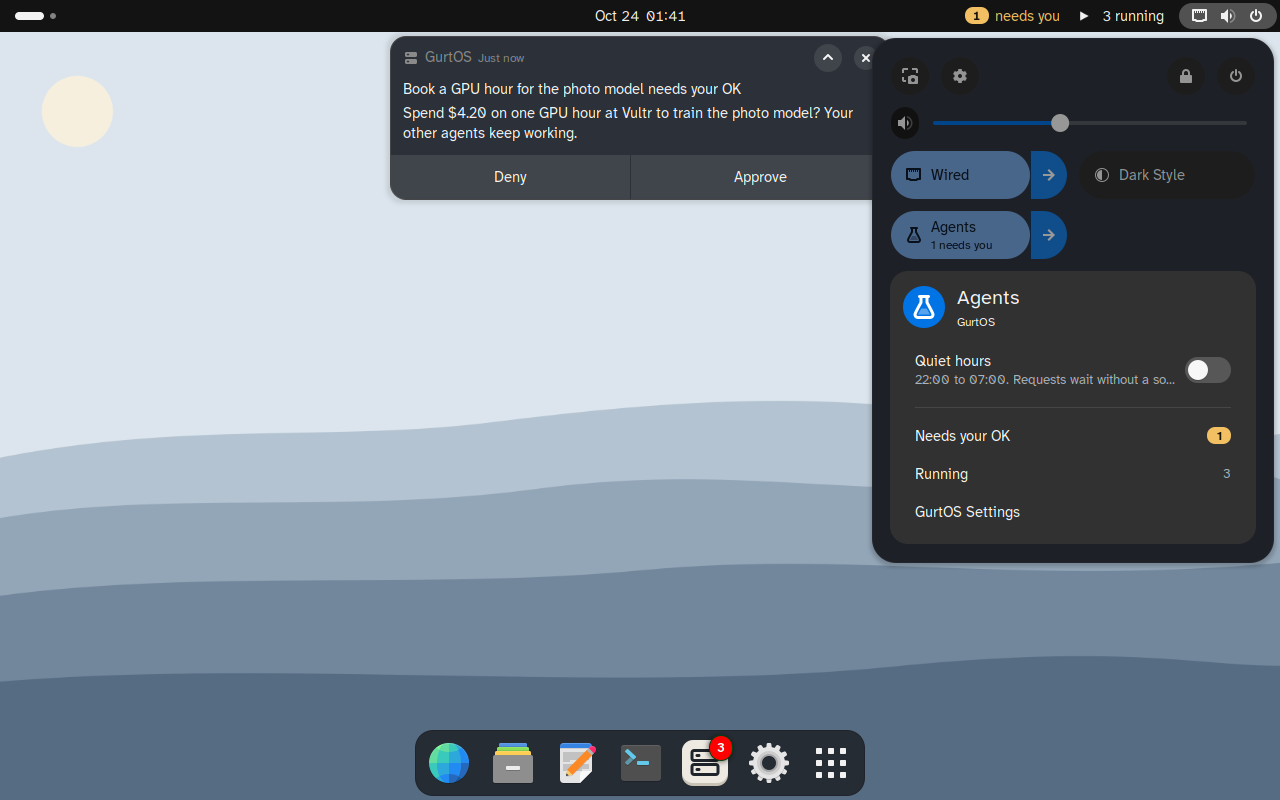
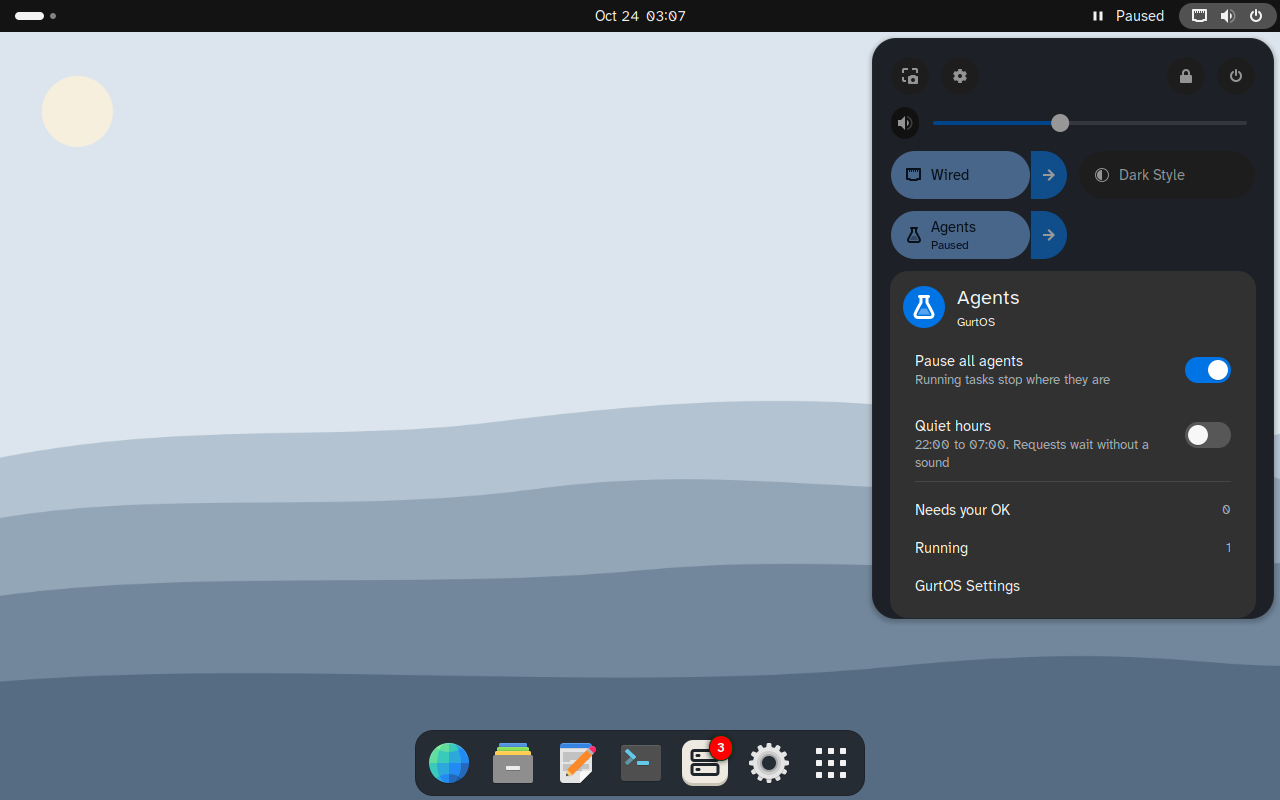
Personal: Pause all agents shows as Paused; Plymouth's lock, entry and bullet; Hills behind first-boot setup
The top bar and the Agents tile say Paused while settings.paused is on, and
the popover's switch refreshes the bar. The two-step splash gets the three
images it needs to load, drawn for GurtOS. GDM's dconf sets the background,
which GNOME's first-boot setup session reads. The Plymouth theme folder is
replaced on install, so an older theme's files go.

diff --git a/personal/shell/gurtos@gurtos.dev/extension.js b/personal/shell/gurtos@gurtos.dev/extension.js
@@ -135,9 +135,11 @@ class Indicator extends PanelMenu.Button {
         const c = counts(tasks, pending);
         this.needs.text = String(c.needsYou);
         this.needsBox.visible = c.needsYou > 0;
-        this.runningLabel.text = online === false ? 'offline' : c.running ? `${c.running} running` : 'Agents';
-        this.runIcon.icon_name = online === false ? 'network-offline-symbolic' : c.running ? 'media-playback-start-symbolic' : 'applications-science-symbolic';
-        this.runBox.visible = !c.needsYou || c.running > 0 || online === false;
+        const paused = !!this.ext.settings?.paused;
+        this.runningLabel.text = online === false ? 'offline' : paused ? 'Paused' : c.running ? `${c.running} running` : 'Agents';
+        this.runIcon.icon_name = online === false ? 'network-offline-symbolic' : paused ? 'media-playback-pause-symbolic'
+            : c.running ? 'media-playback-start-symbolic' : 'applications-science-symbolic';
+        this.runBox.visible = !c.needsYou || c.running > 0 || paused || online === false;
         this.rebuild(); // kept current, so the menu opens on what is true now
     }
 
@@ -243,7 +245,8 @@ class AgentsToggle extends QuickMenuToggle {
         const c = counts(tasks, pending);
         const quiet = !!settings?.quietHours?.enabled;
         this.checked = c.running > 0 || c.needsYou > 0; // on while agents run
-        this.subtitle = c.needsYou ? `${c.needsYou} need${c.needsYou === 1 ? 's' : ''} you` : c.running ? `${c.running} running` : quiet ? 'Quiet hours' : 'Nothing running';
+        this.subtitle = c.needsYou ? `${c.needsYou} need${c.needsYou === 1 ? 's' : ''} you` : settings?.paused ? 'Paused'
+            : c.running ? `${c.running} running` : quiet ? 'Quiet hours' : 'Nothing running';
         this.menu.removeAll();
         if (settings && 'paused' in settings)
             this.menu.addMenuItem(switchRow('Pause all agents', 'Running tasks stop where they are', !!settings.paused, v => this.ext.patch({paused: v})));
@@ -432,6 +435,7 @@ export default class GurtOS extends Extension {
         } catch (e) {
             this.notice('GurtOS did not save that', e.message);
         }
+        this.indicator?.update();
         this.agents?.toggle.update();
     }
 

diff --git a/personal/README.md b/personal/README.md
@@ -15,7 +15,7 @@ ISO walked as a new person, on Wayland (Ubuntu's default) and Xorg.
 |---|---|---|
 | The GurtOS session | Its own GNOME session and Shell mode, like Ubuntu's own: it loads the GurtOS Shell extension, Ubuntu's dock, AppIndicator support and tiling. GDM starts it by default, on Wayland or Xorg. An extension a session mode loads cannot be switched off by accident | `theme/session/`, `theme/install.sh` |
 | The top bar | An amber "1 needs you" pill and "▶ 2 running". Its popover: Agents with the counts, Needs your OK as an amber card with Deny and Approve, Ready to review, Running with a working bar, then Ask an Agent…, Open GurtOS, GurtOS Settings | `shell/gurtos@gurtos.dev/` |
-| Quick Settings | An Agents tile with the flask icon, on while agents run, subtitle "1 needs you". Its menu: Pause all agents (once the core has it), Quiet hours ("Until 07:00. Requests wait without a sound"), Needs your OK and Running with counts, GurtOS Settings | `shell/gurtos@gurtos.dev/` |
+| Quick Settings | An Agents tile with the flask icon, on while agents run, subtitle "1 needs you". Its menu: Pause all agents (the core's `paused` setting, the same one Business's kill switch uses; the top bar then says Paused), Quiet hours ("Until 07:00. Requests wait without a sound"), Needs your OK and Running with counts, GurtOS Settings | `shell/gurtos@gurtos.dev/` |
 | Approvals as Shell notifications | Deny and Approve (Approve names the amount); clicking the body opens the task; answered anywhere else, it goes away; in quiet hours it waits in the list without a banner | `shell/gurtos@gurtos.dev/` |
 | The lock screen | Each approval as a card in the lock screen's notification list. Deny works while locked. Unlock to approve asks for the password, then approves, because approving can spend money | `shell/gurtos@gurtos.dev/` |
 | Activities search | Two sections in the overview: GurtOS (agent tasks by title) and Find (files and photos /find knows, by what is in them). A result opens in the GurtOS app | `search-provider.py` |
@@ -32,7 +32,9 @@ ISO walked as a new person, on Wayland (Ubuntu's default) and Xorg.
 
 ![The top-bar popover](screenshots/os/03-popover.png)
 
-![The Agents tile in Quick Settings](screenshots/os/06-agents-tile.png)
+![The Agents tile in Quick Settings, paused](screenshots/os/06-agents-tile.png)
+
+![Paused: the top bar says so](screenshots/os/05-paused.png)
 
 ![The lock screen: Deny, or Unlock to approve](screenshots/os/07-lock.png)
 
@@ -67,7 +69,7 @@ builds the `GurtOS` icon theme from the installed Papirus with its folders recol
 | Shell theme | Yaru's dark blue Shell theme, with the GurtOS tokens, font and radii from the extension's `stylesheet.css` | a full `gnome-shell-theme.gresource` (and the Hills login background in GDM) is not built yet |
 | The Files bar (Review changes, Undo, Keep changes) | the same actions in the folder's right-click menu | nautilus-python 4 on GNOME 46 has no way to add a bar to a Files window |
 | GTK 3 apps | Yaru-blue | adw-gtk3 is not in Ubuntu 24.04's archive, so it is not shipped or credited |
-| May read, Pause all agents | not shown; the Pause switch appears by itself once the core's settings have `paused` | the core has no API for them yet |
+| May read | not shown | the core has no API for it yet |
 | Software in the dock | listed, shown when installed | the test VM has no Software app; the image decides which one ships |
 
 **The design.** These windows follow the GurtOS system (`docs/figma/system.md`) and the Personal frames in
@@ -202,6 +204,9 @@ at first boot). What the image adds itself:
 - Optional: drop Ubuntu's sessions from `/usr/share/{wayland-sessions,xsessions}/ubuntu*.desktop`, so the login
   screen offers only GurtOS.
 - Rebuild the initramfs after install.sh (`update-initramfs -u`), for the two-step Plymouth theme.
+  The theme carries its own `lock.png`, `entry.png` and `bullet.png` (drawn for GurtOS): two-step will not load
+  without them. The image also ships `/etc/plymouth/plymouthd.conf` and `plymouth.ignore-serial-consoles`.
+- GNOME's first-boot setup shows Hills too: `dconf/db/gdm.d/01-gurtos` sets the background for its session.
 
 ## How it works
 
@@ -269,5 +274,5 @@ delete it afterwards.
 - **Pairing a phone** on Personal: the box has no address a phone can reach yet, so Setup's phone step says so and
   offers Skip until `GET /api/boxes` reports one. The QR path (with `qrencode`) is written but not walked.
 - **From the Personal frames, waiting on the core:** "May read" for a folder (the core has one kind of grant, may
-  change), "May also read" in Ask an Agent, Pause all agents in the top-bar menu, and a per-task internet choice (the
+  change), "May also read" in Ask an Agent and a per-task internet choice (the
   dialog shows what Settings gives a new task).
